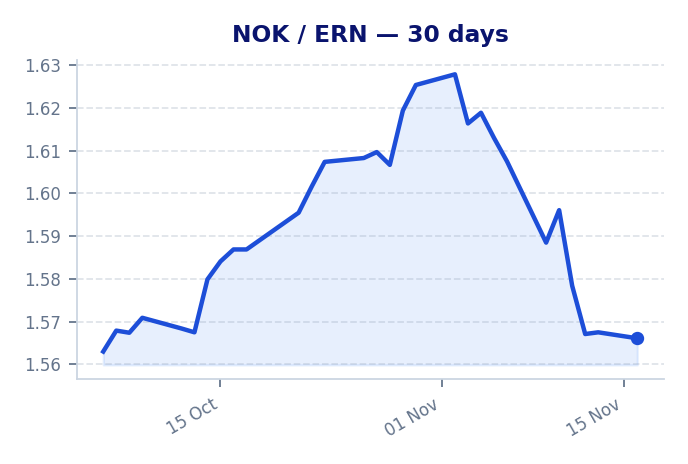
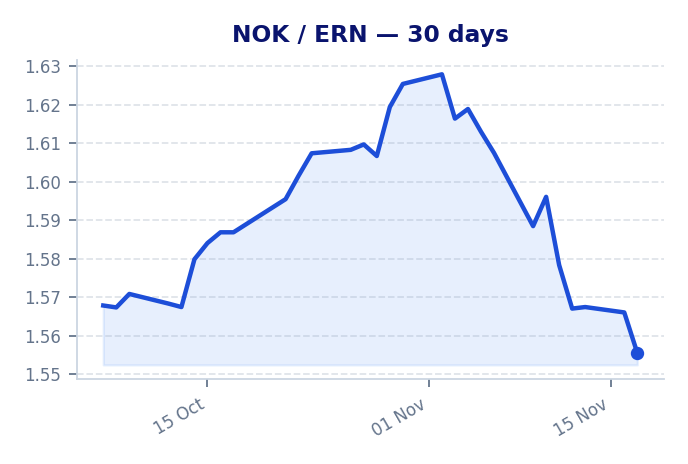
Add files via upload

diff --git a/index.html b/index.html
@@ -939,22 +939,22 @@ tr:hover {
 
             <div class="summary-item">
                 <div class="summary-label">SEK</div>
-                <div class="summary-value">1.488</div>
+                <div class="summary-value">1.4878</div>
             </div>
 
             <div class="summary-item">
                 <div class="summary-label">NOK</div>
-                <div class="summary-value">1.5661</div>
+                <div class="summary-value">1.5556</div>
             </div>
 
             <div class="summary-item">
                 <div class="summary-label">DKK</div>
-                <div class="summary-value">2.211</div>
+                <div class="summary-value">2.2093</div>
             </div>
 
             </div>
             <div class="mid-market-meta">
-                <div><span style="font-weight:600" data-i18n="last-updated">Last Updated:</span> 2026-11-16 07:00</div>
+                <div><span style="font-weight:600" data-i18n="last-updated">Last Updated:</span> 2026-11-17 06:59</div>
                 <div style="font-size:0.8rem" data-i18n="mid-market-note">Official mid-market rates collected daily. Actual transfer payout rates shown below.</div>
             </div>
         </div>
@@ -974,11 +974,11 @@ tr:hover {
             <div class="insight-boxes">
                 <div class="bestbox">
                     <span class="icon">🏆</span> 
-                    <span data-i18n="top-pick">Top Pick: <b>Ria</b> delivers <b>14 700 ERN</b></span>
+                    <span data-i18n="top-pick">Top Pick: <b>Ria</b> delivers <b>14 540 ERN</b></span>
                 </div>
                 <div class="gainbox">
                     <span class="icon">💡</span> 
-                    <span data-i18n="smart-move">Smart Move: You get <b>+467 ERN</b> more with <b>Ria</b> vs <b>Juba Express</b></span>
+                    <span data-i18n="smart-move">Smart Move: You get <b>+310 ERN</b> more with <b>Ria</b> vs <b>Juba Express</b></span>
                 </div>
             </div>
             
@@ -1001,24 +1001,12 @@ tr:hover {
 <td class="left">
     <div class="company-name">Ria</div>
 </td>
-<td class="right font-numeric">1.4700</td>
+<td class="right font-numeric">1.4540</td>
 <td class="right font-numeric">0,00</td>
-<td class="right nowrap font-numeric highlight-ern">14 700</td>
+<td class="right nowrap font-numeric highlight-ern">14 540</td>
 <td class="right nowrap font-numeric">-</td>
-<td class="right font-numeric markup-good">1.21%</td>
+<td class="right font-numeric markup-cell">2.27%</td>
 <td class="right font-numeric hide-mobile"><span class="badge best-badge">Best</span></td>
-</tr>
-
-<tr class="">
-<td class="left">
-    <div class="company-name">Western Union</div>
-</td>
-<td class="right font-numeric">1.4488</td>
-<td class="right font-numeric">0,00</td>
-<td class="right nowrap font-numeric highlight-ern">14 488</td>
-<td class="right nowrap font-numeric"><span class="loss-text">-212 ERN</span></td>
-<td class="right font-numeric markup-cell">2.63%</td>
-<td class="right font-numeric hide-mobile"><span class="badge rank-badge">#2</span></td>
 </tr>
 
 <tr class="">
@@ -1028,8 +1016,20 @@ tr:hover {
 <td class="right font-numeric">1.4485</td>
 <td class="right font-numeric">0,00</td>
 <td class="right nowrap font-numeric highlight-ern">14 484</td>
-<td class="right nowrap font-numeric"><span class="loss-text">-215 ERN</span></td>
-<td class="right font-numeric markup-cell">2.65%</td>
+<td class="right nowrap font-numeric"><span class="loss-text">-55 ERN</span></td>
+<td class="right font-numeric markup-cell">2.64%</td>
+<td class="right font-numeric hide-mobile"><span class="badge rank-badge">#2</span></td>
+</tr>
+
+<tr class="">
+<td class="left">
+    <div class="company-name">Western Union</div>
+</td>
+<td class="right font-numeric">1.4458</td>
+<td class="right font-numeric">0,00</td>
+<td class="right nowrap font-numeric highlight-ern">14 458</td>
+<td class="right nowrap font-numeric"><span class="loss-text">-82 ERN</span></td>
+<td class="right font-numeric markup-cell">2.82%</td>
 <td class="right font-numeric hide-mobile"><span class="badge rank-badge">#3</span></td>
 </tr>
 
@@ -1037,11 +1037,11 @@ tr:hover {
 <td class="left">
     <div class="company-name">Transfer Galaxy</div>
 </td>
-<td class="right font-numeric">1.4477</td>
+<td class="right font-numeric">1.4458</td>
 <td class="right font-numeric">0,00</td>
-<td class="right nowrap font-numeric highlight-ern">14 477</td>
-<td class="right nowrap font-numeric"><span class="loss-text">-223 ERN</span></td>
-<td class="right font-numeric markup-cell">2.71%</td>
+<td class="right nowrap font-numeric highlight-ern">14 458</td>
+<td class="right nowrap font-numeric"><span class="loss-text">-82 ERN</span></td>
+<td class="right font-numeric markup-cell">2.82%</td>
 <td class="right font-numeric hide-mobile"><span class="badge rank-badge">#4</span></td>
 </tr>
 
@@ -1049,11 +1049,11 @@ tr:hover {
 <td class="left">
     <div class="company-name">Dahabshiil</div>
 </td>
-<td class="right font-numeric">1.4331</td>
+<td class="right font-numeric">1.4328</td>
 <td class="right font-numeric">0,00</td>
-<td class="right nowrap font-numeric highlight-ern">14 331</td>
-<td class="right nowrap font-numeric"><span class="loss-text">-369 ERN</span></td>
-<td class="right font-numeric markup-cell">3.69%</td>
+<td class="right nowrap font-numeric highlight-ern">14 328</td>
+<td class="right nowrap font-numeric"><span class="loss-text">-212 ERN</span></td>
+<td class="right font-numeric markup-cell">3.70%</td>
 <td class="right font-numeric hide-mobile"><span class="badge rank-badge">#5</span></td>
 </tr>
 
@@ -1061,11 +1061,11 @@ tr:hover {
 <td class="left">
     <div class="company-name">Juba Express</div>
 </td>
-<td class="right font-numeric">1.4233</td>
+<td class="right font-numeric">1.4230</td>
 <td class="right font-numeric">0,00</td>
-<td class="right nowrap font-numeric highlight-ern">14 233</td>
-<td class="right nowrap font-numeric"><span class="loss-text">-467 ERN</span></td>
-<td class="right font-numeric markup-cell">4.35%</td>
+<td class="right nowrap font-numeric highlight-ern">14 230</td>
+<td class="right nowrap font-numeric"><span class="loss-text">-310 ERN</span></td>
+<td class="right font-numeric markup-cell">4.36%</td>
 <td class="right font-numeric hide-mobile"><span class="badge rank-badge">#6</span></td>
 </tr>
 
@@ -1087,11 +1087,11 @@ tr:hover {
             <div class="insight-boxes">
                 <div class="bestbox">
                     <span class="icon">🏆</span> 
-                    <span data-i18n="top-pick">Top Pick: <b>Ria Money Transfer</b> delivers <b>15 300 ERN</b></span>
+                    <span data-i18n="top-pick">Top Pick: <b>Ria Money Transfer</b> delivers <b>15 250 ERN</b></span>
                 </div>
                 <div class="gainbox">
                     <span class="icon">💡</span> 
-                    <span data-i18n="smart-move">Smart Move: You get <b>+687 ERN</b> more with <b>Ria Money Transfer</b> vs <b>Dahabshiil</b></span>
+                    <span data-i18n="smart-move">Smart Move: You get <b>+738 ERN</b> more with <b>Ria Money Transfer</b> vs <b>Dahabshiil</b></span>
                 </div>
             </div>
             
@@ -1114,11 +1114,11 @@ tr:hover {
 <td class="left">
     <div class="company-name">Ria Money Transfer</div>
 </td>
-<td class="right font-numeric">1.5300</td>
+<td class="right font-numeric">1.5250</td>
 <td class="right font-numeric">0,00</td>
-<td class="right nowrap font-numeric highlight-ern">15 300</td>
+<td class="right nowrap font-numeric highlight-ern">15 250</td>
 <td class="right nowrap font-numeric">-</td>
-<td class="right font-numeric markup-cell">2.31%</td>
+<td class="right font-numeric markup-good">1.97%</td>
 <td class="right font-numeric hide-mobile"><span class="badge best-badge">Best</span></td>
 </tr>
 
@@ -1126,11 +1126,11 @@ tr:hover {
 <td class="left">
     <div class="company-name">Transfer Galaxy</div>
 </td>
-<td class="right font-numeric">1.5237</td>
+<td class="right font-numeric">1.5123</td>
 <td class="right font-numeric">0,00</td>
-<td class="right nowrap font-numeric highlight-ern">15 237</td>
-<td class="right nowrap font-numeric"><span class="loss-text">-63 ERN</span></td>
-<td class="right font-numeric markup-cell">2.71%</td>
+<td class="right nowrap font-numeric highlight-ern">15 123</td>
+<td class="right nowrap font-numeric"><span class="loss-text">-127 ERN</span></td>
+<td class="right font-numeric markup-cell">2.78%</td>
 <td class="right font-numeric hide-mobile"><span class="badge rank-badge">#2</span></td>
 </tr>
 
@@ -1138,11 +1138,11 @@ tr:hover {
 <td class="left">
     <div class="company-name">Remitly</div>
 </td>
-<td class="right font-numeric">1.5183</td>
+<td class="right font-numeric">1.5076</td>
 <td class="right font-numeric">0,00</td>
-<td class="right nowrap font-numeric highlight-ern">15 183</td>
-<td class="right nowrap font-numeric"><span class="loss-text">-117 ERN</span></td>
-<td class="right font-numeric markup-cell">3.05%</td>
+<td class="right nowrap font-numeric highlight-ern">15 076</td>
+<td class="right nowrap font-numeric"><span class="loss-text">-174 ERN</span></td>
+<td class="right font-numeric markup-cell">3.09%</td>
 <td class="right font-numeric hide-mobile"><span class="badge rank-badge">#3</span></td>
 </tr>
 
@@ -1150,11 +1150,11 @@ tr:hover {
 <td class="left">
     <div class="company-name">Juba Express</div>
 </td>
-<td class="right font-numeric">1.4979</td>
+<td class="right font-numeric">1.4876</td>
 <td class="right font-numeric">0,00</td>
-<td class="right nowrap font-numeric highlight-ern">14 979</td>
-<td class="right nowrap font-numeric"><span class="loss-text">-321 ERN</span></td>
-<td class="right font-numeric markup-cell">4.35%</td>
+<td class="right nowrap font-numeric highlight-ern">14 876</td>
+<td class="right nowrap font-numeric"><span class="loss-text">-374 ERN</span></td>
+<td class="right font-numeric markup-cell">4.37%</td>
 <td class="right font-numeric hide-mobile"><span class="badge rank-badge">#4</span></td>
 </tr>
 
@@ -1162,11 +1162,11 @@ tr:hover {
 <td class="left">
     <div class="company-name">Hidmona Money Transfer</div>
 </td>
-<td class="right font-numeric">1.4893</td>
+<td class="right font-numeric">1.4773</td>
 <td class="right font-numeric">0,00</td>
-<td class="right nowrap font-numeric highlight-ern">14 893</td>
-<td class="right nowrap font-numeric"><span class="loss-text">-407 ERN</span></td>
-<td class="right font-numeric markup-cell">4.90%</td>
+<td class="right nowrap font-numeric highlight-ern">14 773</td>
+<td class="right nowrap font-numeric"><span class="loss-text">-477 ERN</span></td>
+<td class="right font-numeric markup-cell">5.03%</td>
 <td class="right font-numeric hide-mobile"><span class="badge rank-badge">#5</span></td>
 </tr>
 
@@ -1174,11 +1174,11 @@ tr:hover {
 <td class="left">
     <div class="company-name">Dahabshiil</div>
 </td>
-<td class="right font-numeric">1.4613</td>
+<td class="right font-numeric">1.4512</td>
 <td class="right font-numeric">0,00</td>
-<td class="right nowrap font-numeric highlight-ern">14 613</td>
-<td class="right nowrap font-numeric"><span class="loss-text">-687 ERN</span></td>
-<td class="right font-numeric markup-cell">6.69%</td>
+<td class="right nowrap font-numeric highlight-ern">14 512</td>
+<td class="right nowrap font-numeric"><span class="loss-text">-738 ERN</span></td>
+<td class="right font-numeric markup-cell">6.71%</td>
 <td class="right font-numeric hide-mobile"><span class="badge rank-badge">#6</span></td>
 </tr>
 
@@ -1200,11 +1200,11 @@ tr:hover {
             <div class="insight-boxes">
                 <div class="bestbox">
                     <span class="icon">🏆</span> 
-                    <span data-i18n="top-pick">Top Pick: <b>Western Union</b> delivers <b>22 108 ERN</b></span>
+                    <span data-i18n="top-pick">Top Pick: <b>Western Union</b> delivers <b>22 060 ERN</b></span>
                 </div>
                 <div class="gainbox">
                     <span class="icon">💡</span> 
-                    <span data-i18n="smart-move">Smart Move: You get <b>+960 ERN</b> more with <b>Western Union</b> vs <b>Juba Express</b></span>
+                    <span data-i18n="smart-move">Smart Move: You get <b>+928 ERN</b> more with <b>Western Union</b> vs <b>Juba Express</b></span>
                 </div>
             </div>
             
@@ -1227,11 +1227,11 @@ tr:hover {
 <td class="left">
     <div class="company-name">Western Union</div>
 </td>
-<td class="right font-numeric">2.2108</td>
+<td class="right font-numeric">2.2060</td>
 <td class="right font-numeric">0,00</td>
-<td class="right nowrap font-numeric highlight-ern">22 108</td>
+<td class="right nowrap font-numeric highlight-ern">22 060</td>
 <td class="right nowrap font-numeric">-</td>
-<td class="right font-numeric markup-good">0.01%</td>
+<td class="right font-numeric markup-good">0.15%</td>
 <td class="right font-numeric hide-mobile"><span class="badge best-badge">Best</span></td>
 </tr>
 
@@ -1239,11 +1239,11 @@ tr:hover {
 <td class="left">
     <div class="company-name">Ria Money Transfer</div>
 </td>
-<td class="right font-numeric">2.1800</td>
+<td class="right font-numeric">2.1700</td>
 <td class="right font-numeric">0,00</td>
-<td class="right nowrap font-numeric highlight-ern">21 800</td>
-<td class="right nowrap font-numeric"><span class="loss-text">-308 ERN</span></td>
-<td class="right font-numeric markup-good">1.40%</td>
+<td class="right nowrap font-numeric highlight-ern">21 700</td>
+<td class="right nowrap font-numeric"><span class="loss-text">-360 ERN</span></td>
+<td class="right font-numeric markup-good">1.78%</td>
 <td class="right font-numeric hide-mobile"><span class="badge rank-badge">#2</span></td>
 </tr>
 
@@ -1251,11 +1251,11 @@ tr:hover {
 <td class="left">
     <div class="company-name">Hidmona Money Transfer</div>
 </td>
-<td class="right font-numeric">2.1711</td>
+<td class="right font-numeric">2.1650</td>
 <td class="right font-numeric">0,00</td>
-<td class="right nowrap font-numeric highlight-ern">21 711</td>
-<td class="right nowrap font-numeric"><span class="loss-text">-397 ERN</span></td>
-<td class="right font-numeric markup-good">1.80%</td>
+<td class="right nowrap font-numeric highlight-ern">21 650</td>
+<td class="right nowrap font-numeric"><span class="loss-text">-410 ERN</span></td>
+<td class="right font-numeric markup-cell">2.01%</td>
 <td class="right font-numeric hide-mobile"><span class="badge rank-badge">#3</span></td>
 </tr>
 
@@ -1263,11 +1263,11 @@ tr:hover {
 <td class="left">
     <div class="company-name">Remitly</div>
 </td>
-<td class="right font-numeric">2.1556</td>
+<td class="right font-numeric">2.1543</td>
 <td class="right font-numeric">0,00</td>
-<td class="right nowrap font-numeric highlight-ern">21 556</td>
-<td class="right nowrap font-numeric"><span class="loss-text">-551 ERN</span></td>
-<td class="right font-numeric markup-cell">2.51%</td>
+<td class="right nowrap font-numeric highlight-ern">21 543</td>
+<td class="right nowrap font-numeric"><span class="loss-text">-517 ERN</span></td>
+<td class="right font-numeric markup-cell">2.49%</td>
 <td class="right font-numeric hide-mobile"><span class="badge rank-badge">#4</span></td>
 </tr>
 
@@ -1275,11 +1275,11 @@ tr:hover {
 <td class="left">
     <div class="company-name">Transfer Galaxy</div>
 </td>
-<td class="right font-numeric">2.1507</td>
+<td class="right font-numeric">2.1493</td>
 <td class="right font-numeric">0,00</td>
-<td class="right nowrap font-numeric highlight-ern">21 507</td>
-<td class="right nowrap font-numeric"><span class="loss-text">-601 ERN</span></td>
-<td class="right font-numeric markup-cell">2.73%</td>
+<td class="right nowrap font-numeric highlight-ern">21 493</td>
+<td class="right nowrap font-numeric"><span class="loss-text">-566 ERN</span></td>
+<td class="right font-numeric markup-cell">2.72%</td>
 <td class="right font-numeric hide-mobile"><span class="badge rank-badge">#5</span></td>
 </tr>
 
@@ -1287,10 +1287,10 @@ tr:hover {
 <td class="left">
     <div class="company-name">Juba Express</div>
 </td>
-<td class="right font-numeric">2.1148</td>
+<td class="right font-numeric">2.1131</td>
 <td class="right font-numeric">0,00</td>
-<td class="right nowrap font-numeric highlight-ern">21 147</td>
-<td class="right nowrap font-numeric"><span class="loss-text">-960 ERN</span></td>
+<td class="right nowrap font-numeric highlight-ern">21 131</td>
+<td class="right nowrap font-numeric"><span class="loss-text">-928 ERN</span></td>
 <td class="right font-numeric markup-cell">4.35%</td>
 <td class="right font-numeric hide-mobile"><span class="badge rank-badge">#6</span></td>
 </tr>
@@ -1309,7 +1309,7 @@ tr:hover {
             <div class="chart-card">
                 <div class="chart-header">
                     <img src="https://flagcdn.com/w40/se.png" class="flag-sm" alt="Sweden" width="24" height="16" loading="lazy" decoding="async"> <span>SEK / ERN</span>
-                    <span class="trend-badge down">▼ 0.4%</span>
+                    <span class="trend-badge down">▼ 0.6%</span>
                 </div>
                 <img src="sek_chart.png" class="chart-img" alt="SEK to ERN exchange-rate trend over the last 30 days" loading="lazy" decoding="async" width="688" height="464">
             </div>
@@ -1317,7 +1317,7 @@ tr:hover {
             <div class="chart-card">
                 <div class="chart-header">
                     <img src="https://flagcdn.com/w40/no.png" class="flag-sm" alt="Norway" width="24" height="16" loading="lazy" decoding="async"> <span>NOK / ERN</span>
-                    <span class="trend-badge up">▲ 0.2%</span>
+                    <span class="trend-badge down">▼ 0.8%</span>
                 </div>
                 <img src="nok_chart.png" class="chart-img" alt="NOK to ERN exchange-rate trend over the last 30 days" loading="lazy" decoding="async" width="688" height="464">
             </div>
@@ -1325,7 +1325,7 @@ tr:hover {
             <div class="chart-card">
                 <div class="chart-header">
                     <img src="https://flagcdn.com/w40/dk.png" class="flag-sm" alt="Denmark" width="24" height="16" loading="lazy" decoding="async"> <span>DKK / ERN</span>
-                    <span class="trend-badge down">▼ 1.8%</span>
+                    <span class="trend-badge down">▼ 2.0%</span>
                 </div>
                 <img src="dkk_chart.png" class="chart-img" alt="DKK to ERN exchange-rate trend over the last 30 days" loading="lazy" decoding="async" width="688" height="464">
             </div>
@@ -1389,7 +1389,7 @@ tr:hover {
         "calculator-note": "እቲ ዝበለጸ ክፍሊት ንዝኣተኻዮ መጠን ብተመሳሳሊ ሕሳብ ዋጋን ክፍሊትን ከም ሰንጠረዥ ይደጋገም።"
     };
 
-    const calculatorData = {"SEK": [{"provider": "Ria", "rate": 1.47, "total_fee": 0.0}, {"provider": "Western Union", "rate": 1.4488, "total_fee": 0.0}, {"provider": "Remitly", "rate": 1.4485, "total_fee": 0.0}, {"provider": "Transfer Galaxy", "rate": 1.4477, "total_fee": 0.0}, {"provider": "Dahabshiil", "rate": 1.4331, "total_fee": 0.0}, {"provider": "Juba Express", "rate": 1.4233, "total_fee": 0.0}], "NOK": [{"provider": "Ria Money Transfer", "rate": 1.53, "total_fee": 0.0}, {"provider": "Transfer Galaxy", "rate": 1.5237, "total_fee": 0.0}, {"provider": "Remitly", "rate": 1.5183, "total_fee": 0.0}, {"provider": "Juba Express", "rate": 1.4979, "total_fee": 0.0}, {"provider": "Hidmona Money Transfer", "rate": 1.4893, "total_fee": 0.0}, {"provider": "Dahabshiil", "rate": 1.4613, "total_fee": 0.0}], "DKK": [{"provider": "Western Union", "rate": 2.2108, "total_fee": 0.0}, {"provider": "Ria Money Transfer", "rate": 2.18, "total_fee": 0.0}, {"provider": "Hidmona Money Transfer", "rate": 2.1711, "total_fee": 0.0}, {"provider": "Remitly", "rate": 2.1556, "total_fee": 0.0}, {"provider": "Transfer Galaxy", "rate": 2.1507, "total_fee": 0.0}, {"provider": "Juba Express", "rate": 2.1148, "total_fee": 0.0}]};
+    const calculatorData = {"SEK": [{"provider": "Ria", "rate": 1.454, "total_fee": 0.0}, {"provider": "Remitly", "rate": 1.4485, "total_fee": 0.0}, {"provider": "Western Union", "rate": 1.4458, "total_fee": 0.0}, {"provider": "Transfer Galaxy", "rate": 1.4458, "total_fee": 0.0}, {"provider": "Dahabshiil", "rate": 1.4328, "total_fee": 0.0}, {"provider": "Juba Express", "rate": 1.423, "total_fee": 0.0}], "NOK": [{"provider": "Ria Money Transfer", "rate": 1.525, "total_fee": 0.0}, {"provider": "Transfer Galaxy", "rate": 1.5123, "total_fee": 0.0}, {"provider": "Remitly", "rate": 1.5076, "total_fee": 0.0}, {"provider": "Juba Express", "rate": 1.4876, "total_fee": 0.0}, {"provider": "Hidmona Money Transfer", "rate": 1.4773, "total_fee": 0.0}, {"provider": "Dahabshiil", "rate": 1.4512, "total_fee": 0.0}], "DKK": [{"provider": "Western Union", "rate": 2.206, "total_fee": 0.0}, {"provider": "Ria Money Transfer", "rate": 2.17, "total_fee": 0.0}, {"provider": "Hidmona Money Transfer", "rate": 2.165, "total_fee": 0.0}, {"provider": "Remitly", "rate": 2.1543, "total_fee": 0.0}, {"provider": "Transfer Galaxy", "rate": 2.1493, "total_fee": 0.0}, {"provider": "Juba Express", "rate": 2.1131, "total_fee": 0.0}]};
     const labels = [...document.querySelectorAll('[data-i18n]')];
     const english = new Map(labels.map(el => [el, el.innerHTML]));
 
